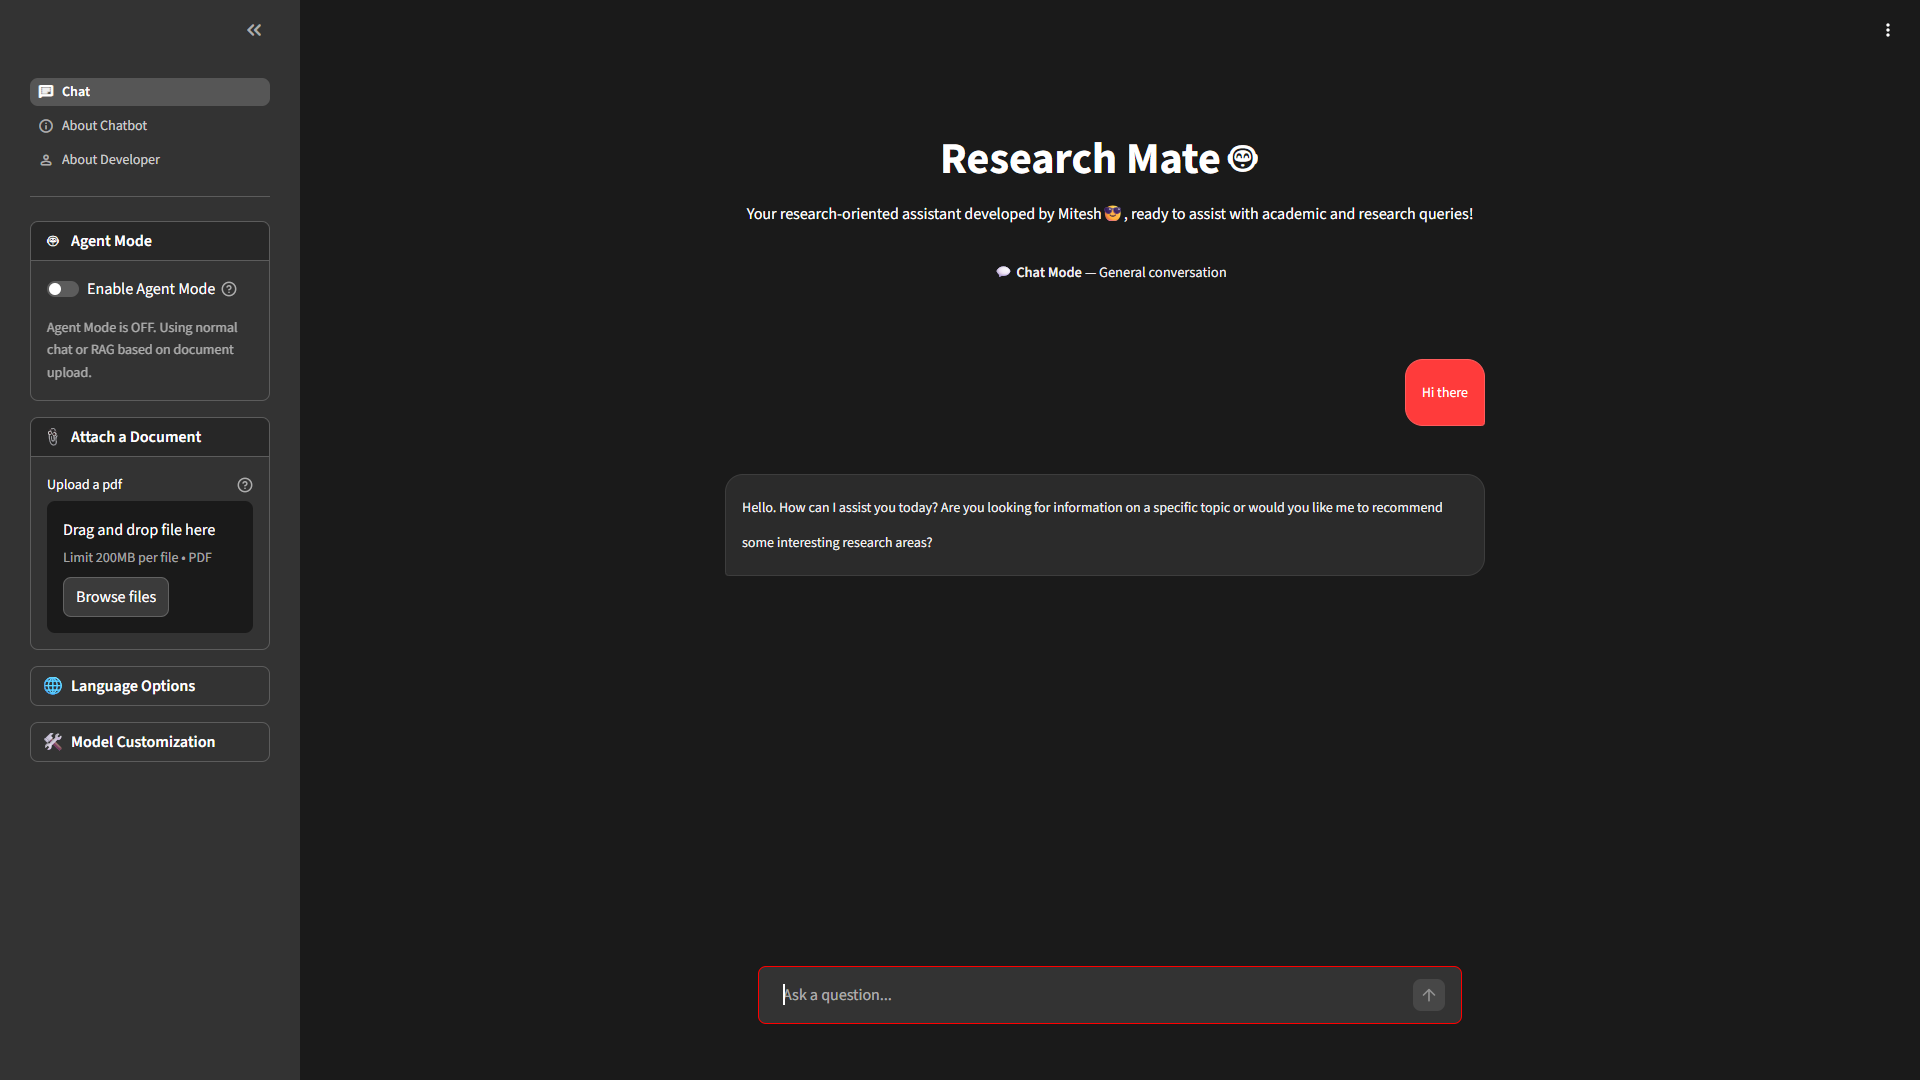
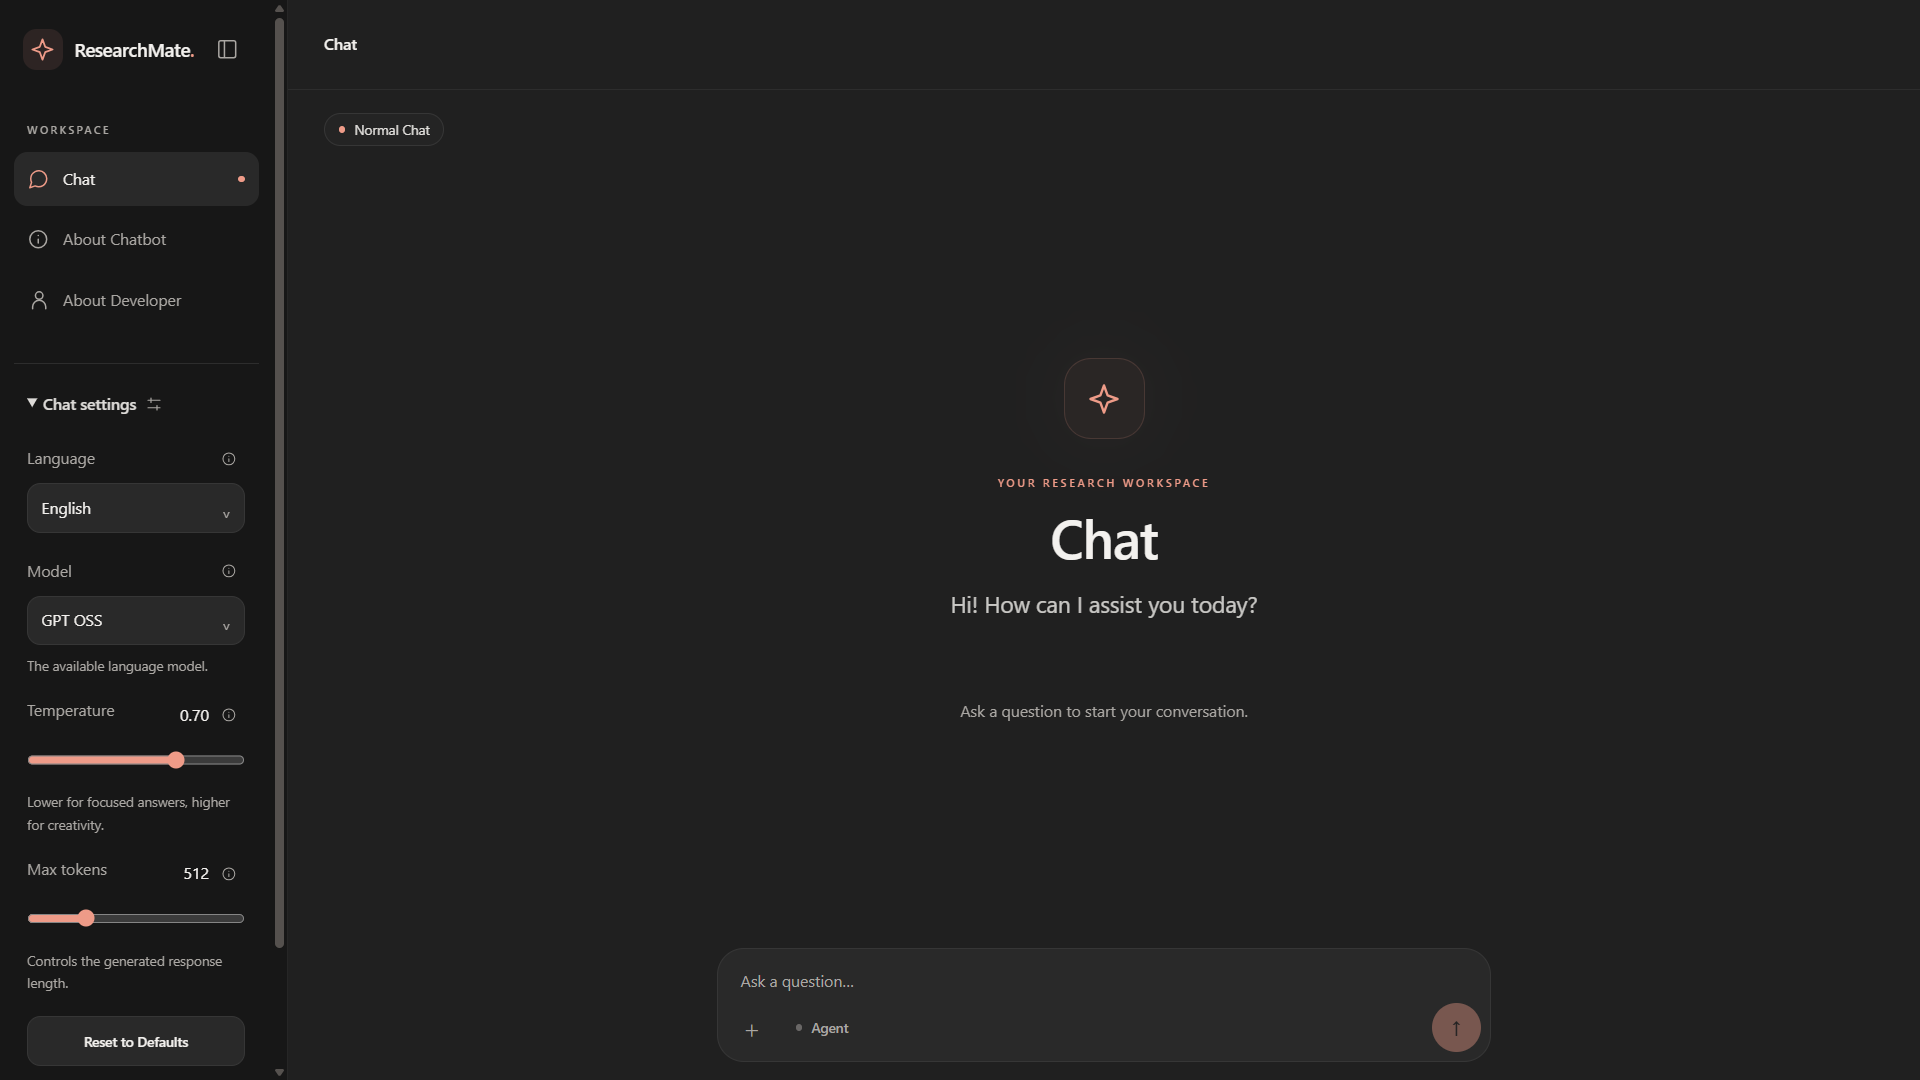
Update binary files for data and ResearchMate assets

diff --git a/datas/data.ts b/datas/data.ts
@@ -193,7 +193,7 @@ export const projects = [
   {
     name: "ResearchMate",
     type: "Personal Project",
-    description: "ResearchMate is an open-source, production-ready AI research assistant for document-grounded question answering. It combines a FastAPI backend, evaluated Retrieval-Augmented Generation (RAG), and optional agent workflows to deliver accurate, reliable, and transparent responses over research documents.",
+    description: "ResearchMate is an open-source, production-ready AI research assistant powered by Retrieval-Augmented Generation (RAG) and agentic workflows. Built with FastAPI, React, TypeScript, and PostgreSQL, it enables document-grounded conversations, contextual research, and reliable AI responses through a modern interface, with AWS deployment and CI/CD.",
     image: "/ResearchMate.png",
     liveLink: "https://researchmate.me/",
     stacks: ["AWS", "Langchain", "Streamlit", "FastAPI", "FAISS"],
